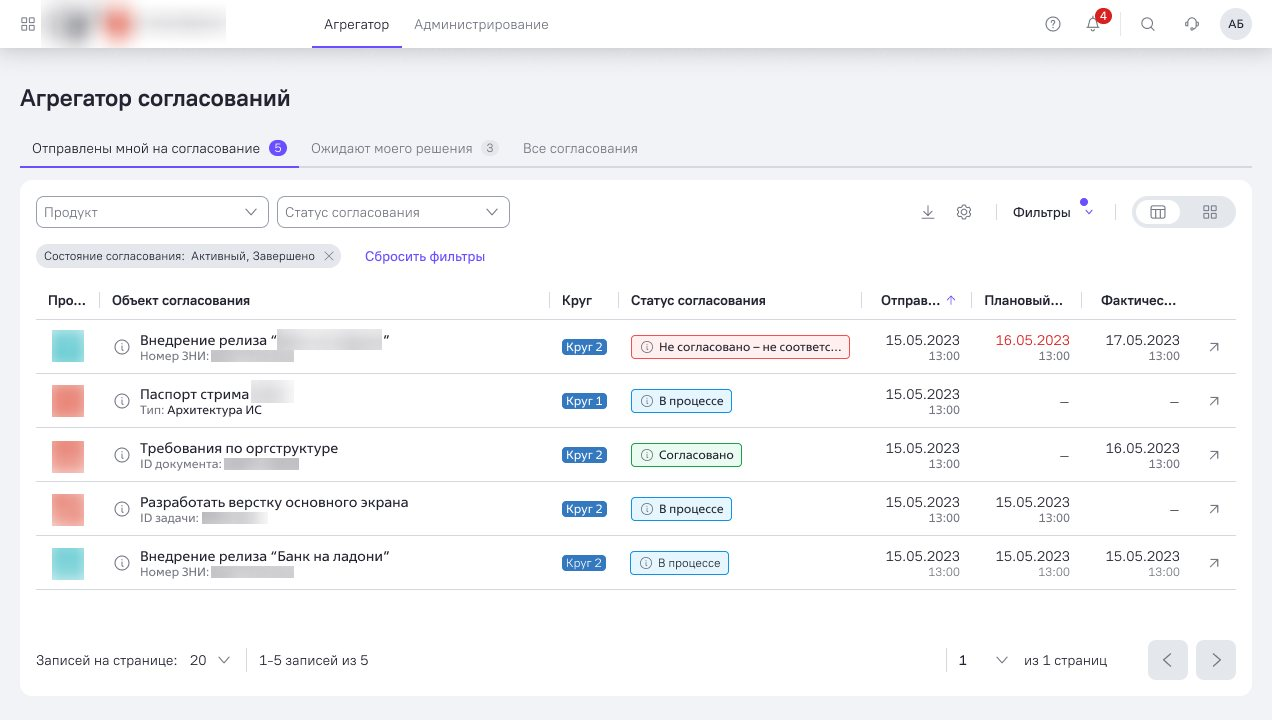
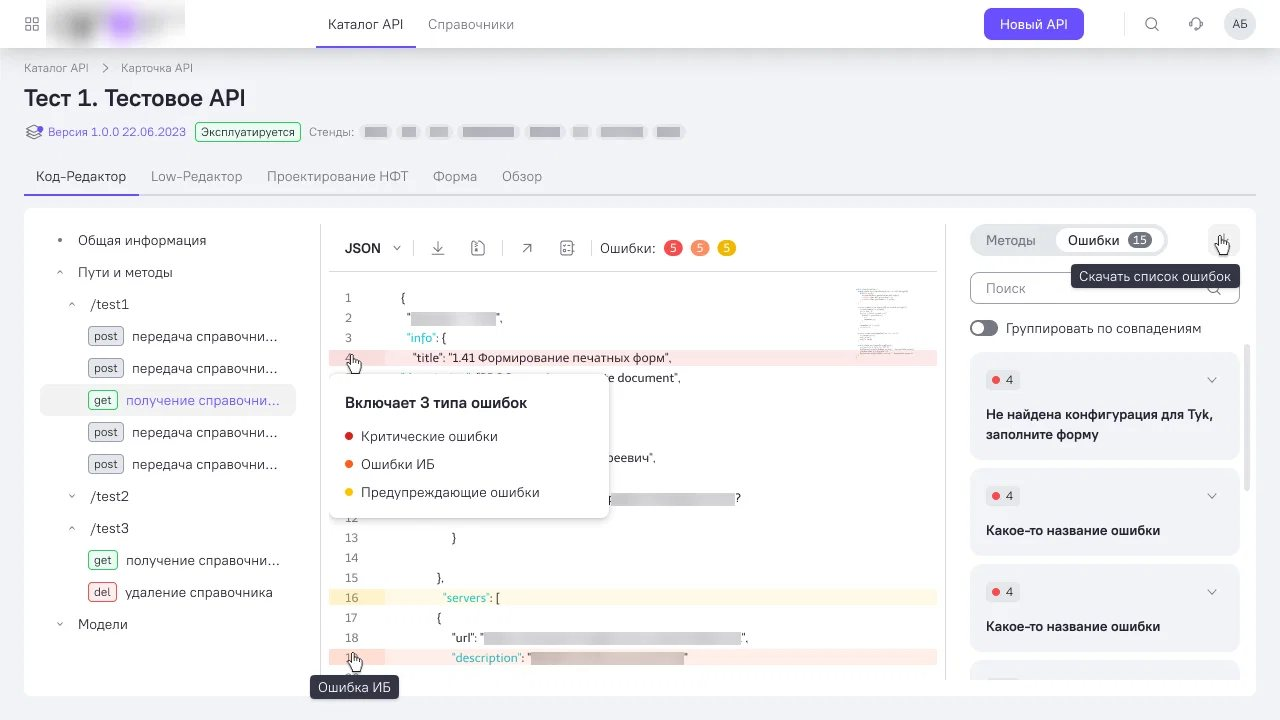
Архитектура: новое превью в блоке «Следующий продукт»

diff --git a/sfera-architecture.html b/sfera-architecture.html
@@ -222,7 +222,7 @@
         <span class="kb-next__title" id="next-title">Сфера.Реестр API</span>
         <span class="kb-next__lead">Набор инструментов для проектирования синхронных и&nbsp;асинхронных API, <br class="kb-br">база знаний для хранения реализованных API.</span>
         <img class="kb-next__btn" src="assets/img/sfera/round-button.svg" alt="" width="50" height="50">
-        <span class="kb-next__preview"><img src="assets/img/sfera/architecture/next-api.jpg" alt="" loading="lazy"></span>
+        <span class="kb-next__preview"><img src="assets/img/sfera/architecture/next-api.jpg?v=2" alt="" loading="lazy"></span>
       </a>
     </section>
   </main>
